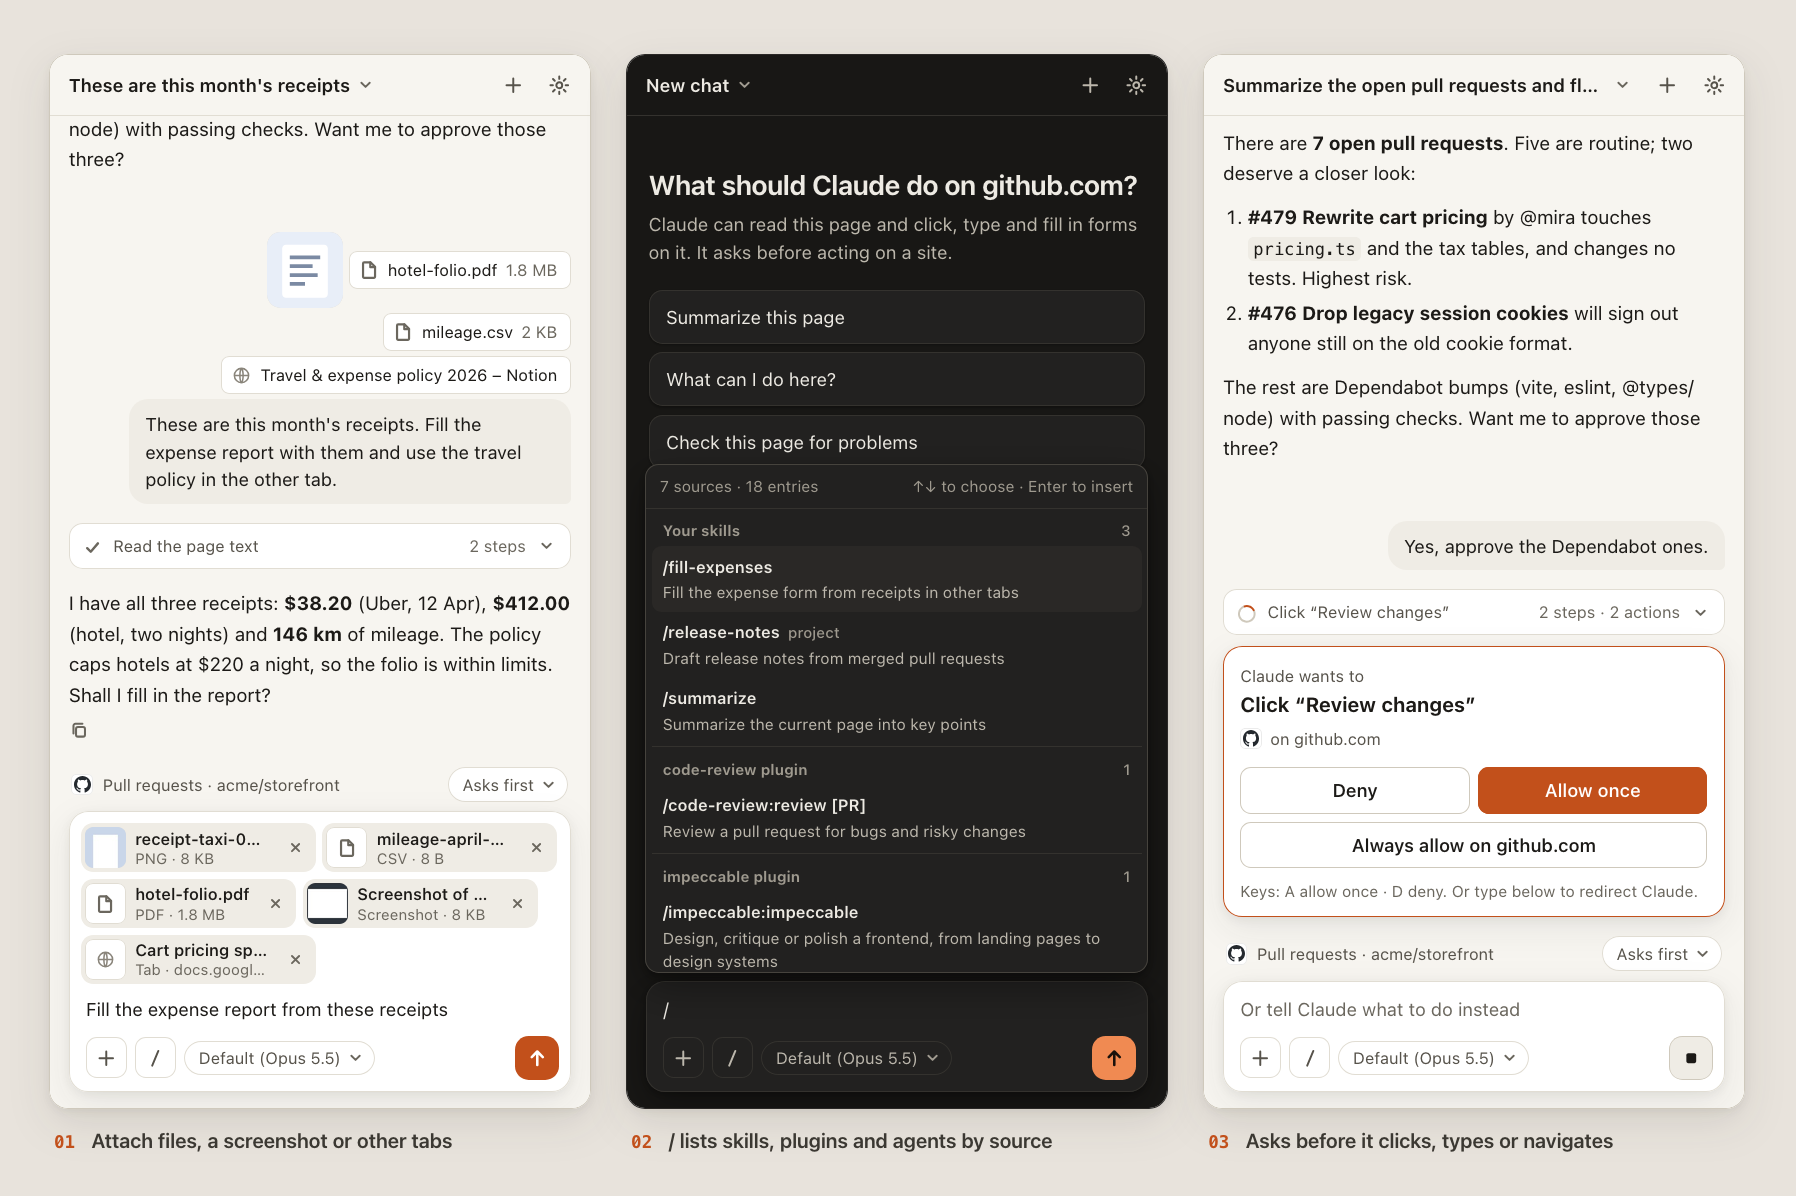
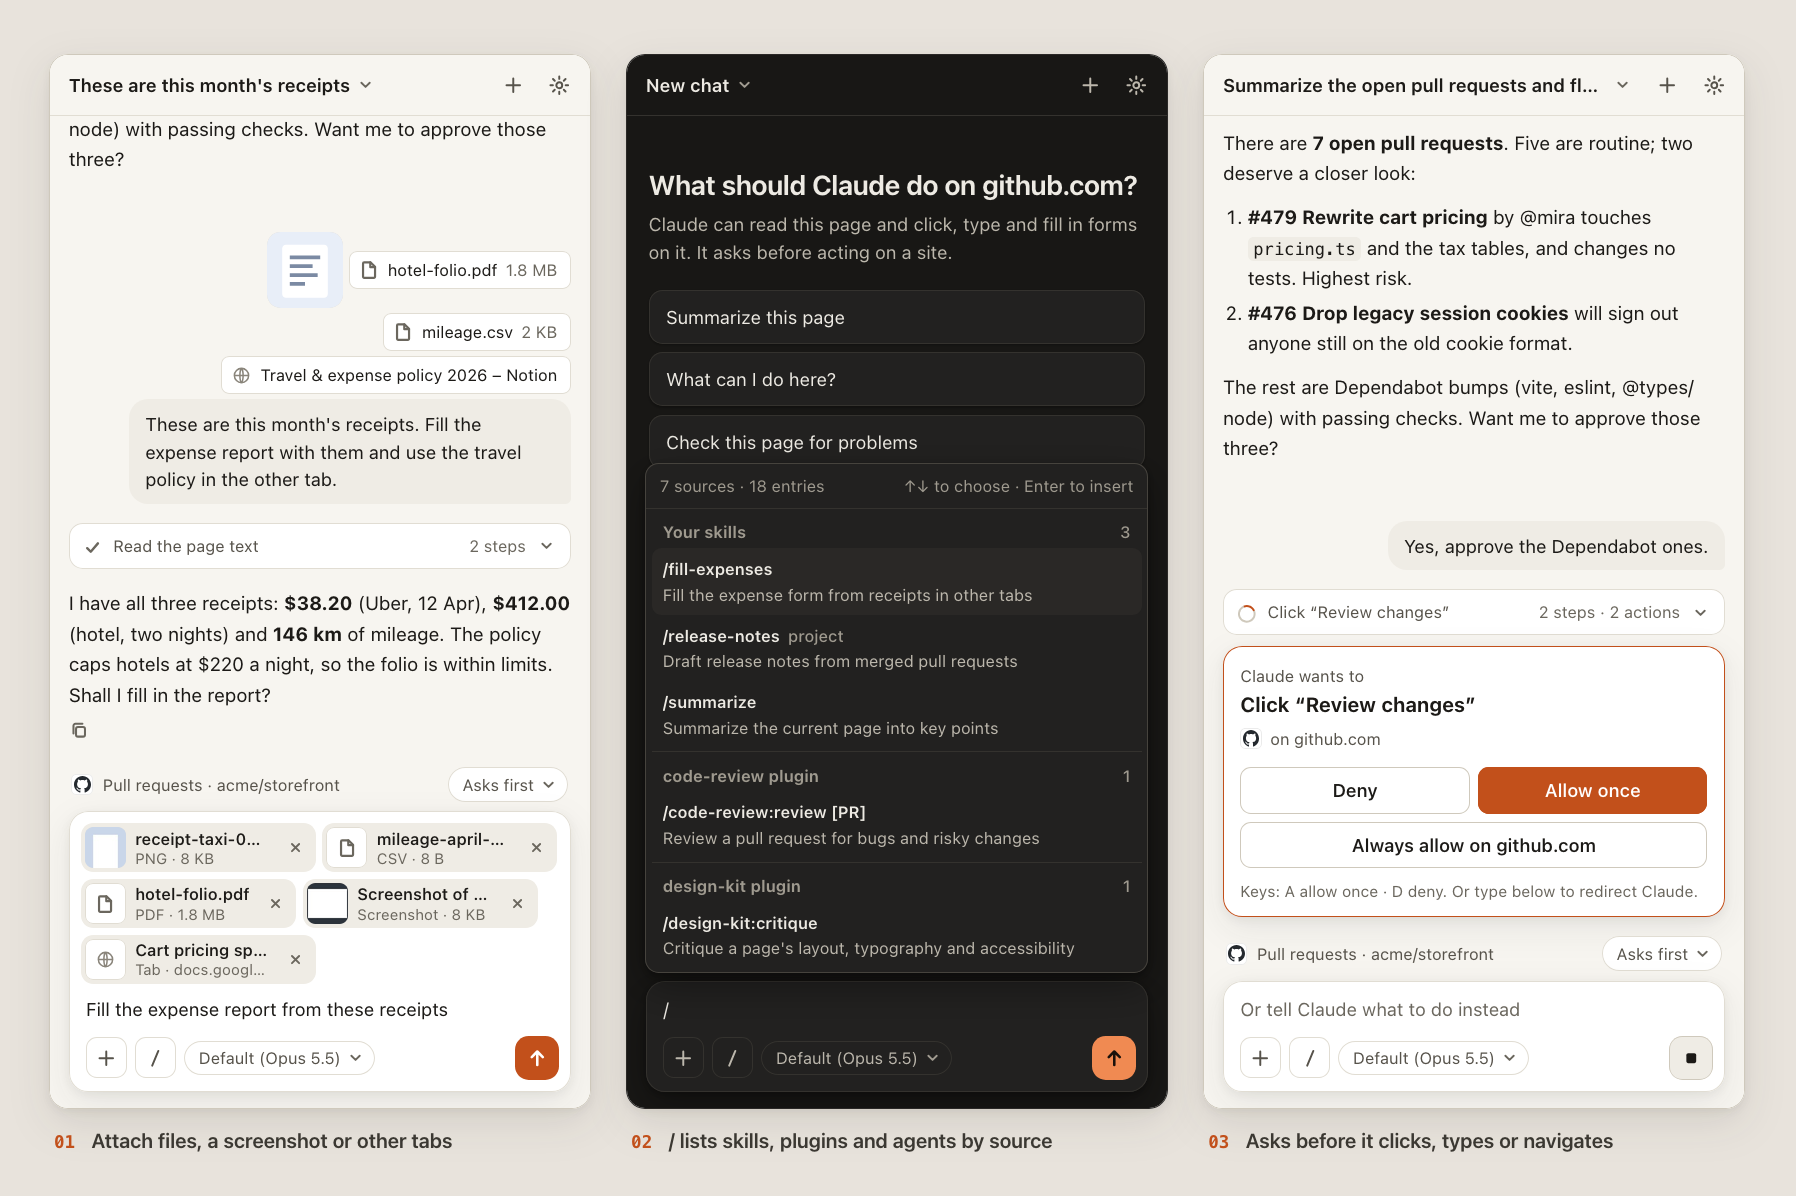
0.7.1: drop .impeccable from the repo, neutral demo data, AMO listing script
- Stop tracking .impeccable/ (local design-tool state)
- Preview mock and images use neutral example plugins instead of personal ones
- npm run amo:listing: upload screenshots with captions, the privacy policy and
  the icon through the AMO API, with Keychain credentials and rate-limit retries

Changed region(s): [[0.3742, 0.4022, 0.5924, 0.8043], [0.4989, 0.4022, 0.6236, 0.4331]]

diff --git a/dev/mock-browser.js b/dev/mock-browser.js
@@ -27,7 +27,7 @@
       skill("mattpocock-skills:research", "(mattpocock-skills) Investigate a question against primary sources and write findings to a file"),
       skill("mattpocock-skills:tdd", "(mattpocock-skills) Test-driven development: red, green, refactor"),
       skill("mattpocock-skills:grill-me", "(mattpocock-skills) A relentless interview to sharpen a plan or design"),
-      skill("impeccable:impeccable", "Design, critique or polish a frontend, from landing pages to design systems"),
+      skill("design-kit:critique", "Critique a page's layout, typography and accessibility"),
       skill("pdf", "Read, merge, split or fill PDF files (claude.ai sync)"),
       skill("xlsx", "Open, clean up or build spreadsheets (claude.ai sync)"),
       skill("compact", "Free up context by summarizing the conversation so far", "", true),
@@ -39,22 +39,22 @@
       { name: "Explore", description: "Fast read-only search agent for sweeping many files or pages" },
       { name: "general-purpose", description: "General-purpose agent for multi-step research and tasks" },
       { name: "source-checker", description: "Checks the sources behind a draft: metadata, claims, gaps" },
-      { name: "impeccable:impeccable-finish-reviewer", description: "Reviews a finished build against its design direction" },
+      { name: "design-kit:reviewer", description: "Reviews a finished page against its design brief" },
     ],
     plugins: [
       { name: "code-review", version: "1.2.0", source: "code-review@claude-plugins-official" },
       { name: "mattpocock-skills", version: "1.3.1", source: "mattpocock-skills@mattpocock" },
-      { name: "impeccable", version: "4.8.1", source: "impeccable@synced" },
-      { name: "paperfetch", version: "0.1.0", source: "paperfetch@paperfetch" },
+      { name: "design-kit", version: "1.2.0", source: "design-kit@marketplace" },
+      { name: "reading-list", version: "0.1.0", source: "reading-list@marketplace" },
     ],
-    pluginErrors: [{ plugin: "paperfetch@paperfetch", type: "hook-load-failed", message: "hooks/hooks.json: unknown event \"BeforeRead\"" }],
+    pluginErrors: [{ plugin: "reading-list@marketplace", type: "hook-load-failed", message: "hooks/hooks.json: unknown event \"BeforeRead\"" }],
     models: [
       { value: "default", displayName: "Default (recommended)", description: "Opus 5.5 · Best for everyday, complex tasks" },
       { value: "opus", displayName: "Opus", description: "Opus 5.5" },
       { value: "sonnet", displayName: "Sonnet", description: "Sonnet 5.5" },
       { value: "haiku", displayName: "Haiku", description: "Haiku 5.5 · Fastest" },
     ],
-    mcpServers: [{ name: "linear", status: "connected" }, { name: "claude.ai Gmail", status: "connected" }, { name: "plugin:paperfetch:paperfetch", status: "connected" }, { name: "figma", status: "failed" }, { name: "claude.ai Google Drive", status: "needs-auth" }],
+    mcpServers: [{ name: "linear", status: "connected" }, { name: "claude.ai Gmail", status: "connected" }, { name: "plugin:reading-list:library", status: "connected" }, { name: "figma", status: "failed" }, { name: "claude.ai Google Drive", status: "needs-auth" }],
   };
   const otherTabs = [
     { id: 11, windowId: 1, title: "Q3 hosting quote · Vercel", url: "https://vercel.com/pricing", favIconUrl: "", lastAccessed: Date.now() - 60e3 },

diff --git a/extension/sidebar/panel.js b/extension/sidebar/panel.js
@@ -916,7 +916,7 @@ function renderSettings() {
   for (const s of c.mcpServers || []) {
     const state = s.status === "connected" ? "" : s.status === "pending" ? "wait" : "bad";
     const chip = el("span", `chip ${state}`);
-    // "plugin:paperfetch:paperfetch" -> "paperfetch"; "claude.ai Gmail" -> "Gmail"
+    // "plugin:reading-list:library" -> "reading-list"; "claude.ai Gmail" -> "Gmail"
     const pm = s.name.match(/^plugin:([^:]+):(.+)$/);
     const name = pm ? (pm[1] === pm[2] ? pm[2] : `${pm[1]} · ${pm[2]}`) : s.name.replace(/^claude\.ai /, "");
     chip.append(el("span", "pip"), el("span", "", name));
